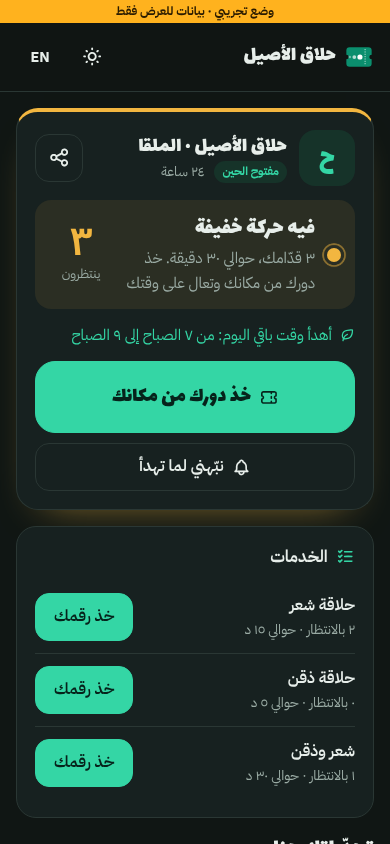
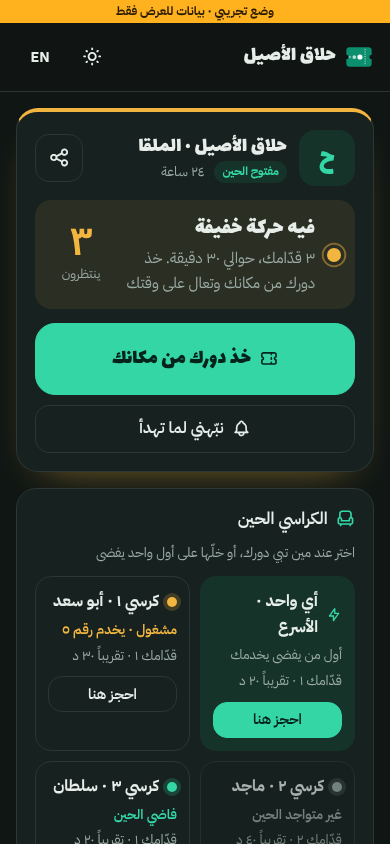
Chairs board: see each chair or stylist live and book a specific one
- public.branch_chairs(): per provider status (free / busy with the number
  being served / away when its device has gone quiet), own waiting, people
  ahead when joining (own queue + fair share of «any»), estimate, services.
  public_branch returns it as «chairs».
- Choosing a chair (preferred_provider) moves to every plan.
- Shop page: «الكراسي الحين» / «المختصات الحين» board with «أي واحد ·
  الأسرع» and «احجز هنا» per chair; the join sheet shows chairs as choices
  with status and wait instead of a hidden dropdown. Away chairs stay bookable.
- Demo API mirrors it; owner hint explains how names appear.
- Tests: pgTAP 10_chairs (7), e2e chairs.spec.

Claude-Session: https://claude.ai/code/session_011AnjtrARLh3VczrdQUDmDr

Changed region(s): [[0.0923, 0.3697, 0.9231, 0.6777], [0.0923, 0.6469, 0.5538, 1.0], [0.5231, 0.7085, 0.9538, 1.0]]

diff --git a/dawri/web/js/screens/shop.js b/dawri/web/js/screens/shop.js
@@ -92,16 +92,21 @@ export async function render(ctx) {
   const poll = setInterval(() => document.visibilityState === "visible" && load().catch(() => {}), 30000);
   ctx.onCleanup(() => { unsub(); clearInterval(poll); });
 
-  async function join(service) {
+  async function join(service, presetProvider = null) {
     const providers = data.providers.filter((p) => !p.service_ids || p.service_ids.includes(service.id));
-    let party = 1, provider = null;
+    let party = 1, provider = presetProvider;
+    const chairOf = (id) => (data.chairs ?? []).find((c) => c.id === id);
+    const chipLine = (c) => (c ? [c.status === "busy" ? t("chairs.busy_plain") : t(`chairs.${c.status}`),
+      c.ahead ? `${t("chairs.ahead", { n: num(c.ahead) })} · ${t("chairs.wait", { m: num(c.estimate_min) })}` : t("chairs.ahead_none")].join(" · ") : "");
+    const chips = h("div.chair-chips", { role: "group", "aria-label": t("join.provider") },
+      [{ id: null, name: t("join.any_provider") }, ...providers].map((p) => h("button.chip.chair-chip", { type: "button", "data-provider": p.id ?? "any", "aria-pressed": String((p.id ?? null) === provider),
+        onclick: () => { provider = p.id ?? null; chips.querySelectorAll("button").forEach((x) => x.setAttribute("aria-pressed", String((x.dataset.provider === "any" ? null : x.dataset.provider) === provider))); } },
+        h("b", p.name), p.id ? h("small", chipLine(chairOf(p.id))) : h("small", t("chairs.any_sub")))));
     const partyOut = h("output.big-num", { style: { fontSize: "2rem", minWidth: "2ch", textAlign: "center" } }, num(1));
     const step = (d) => () => { party = Math.min(6, Math.max(1, party + d)); partyOut.textContent = num(party); };
     const body = [
       h("p.muted", t("join.service", { name: service.name })),
-      providers.length ? h("label.field", h("span", t("join.provider")),
-        h("select", { id: "join-provider", onchange: (e) => (provider = e.target.value || null) },
-          h("option", { value: "" }, t("join.any_provider")), providers.map((p) => h("option", { value: p.id }, p.name)))) : null,
+      providers.length ? h("div.field", h("span", t("join.provider")), chips) : null,
       data.features.includes("family_ticket") ? h("div.field", h("span", t("join.party")), h("p.muted.small", t("join.party_hint")),
         h("div.row", { style: { justifyContent: "center", gap: "18px" } },
           h("button.icon-btn", { type: "button", "aria-label": "−", onclick: step(-1), style: { border: "1.5px solid var(--line)" } }, icon("minus")),
@@ -158,6 +163,7 @@ export async function render(ctx) {
 
     fill(root, 
       pulse(b, f, photo, hoursToday, est),
+      chairsBoard(b),
 
       card(t("shop.services"), "list-check", h("div.list#services", data.services.map((s) => h("div.list-item", { "data-service": s.id },
         h("div.grow", h("div.title", s.name),
@@ -207,6 +213,44 @@ export async function render(ctx) {
 
       f.includes("qa_assistant") ? qaCard() : null,
       h("p.center.muted.small", t("shop.powered")));
+  }
+
+  /** «الكراسي الحين»: every chair / stylist live, the wait for each, and a button to book there. */
+  function chairsBoard(b) {
+    const chairs = data.chairs ?? [];
+    const remote = data.services.filter((s) => s.mode === "remote");
+    if (!chairs.length || !remote.length) return null;
+    const cat = data.branch.category === "salon" ? "salon" : data.branch.category === "barber" ? "barber" : "other";
+    const best = chairs.filter((c) => c.status !== "away").sort((x, y) => x.estimate_min - y.estimate_min)[0];
+    const servicesOf = (c) => remote.filter((s) => !c.service_ids || c.service_ids.includes(s.id));
+    const book = (c) => {
+      if (!b.open) return refused(new ApiError("closed", { next_open_at: b.next_open_at, busy_level: b.busy_level }));
+      const svcs = c ? servicesOf(c) : remote;
+      if (svcs.length === 1) return join(svcs[0], c?.id ?? null);
+      openSheet({ title: t("chairs.pick_service"), body: [h("div.list", svcs.map((s) => h("button.list-item.btn-plain", { type: "button", "data-pick-service": s.id,
+        onclick: () => { document.querySelector(".sheet-backdrop")?.click(); setTimeout(() => join(s, c?.id ?? null), 260); } },
+        h("div.grow", h("div.title", s.name), h("div.muted.small", t("shop.service_wait", { n: num(s.waiting), m: num(s.estimate_min) }))), icon("chevron-left"))))],
+        actions: [{ label: t("action.cancel"), ghost: true }] });
+    };
+    const card = (c) => {
+      const line = c.status === "busy" ? (c.serving_number ? t("chairs.busy", { n: num(c.serving_number) }) : t("chairs.busy_plain")) : t(`chairs.${c.status}`);
+      const svcs = servicesOf(c);
+      return h(`article.chair.st-${c.status}`, { "data-chair": c.id },
+        h("div.chair-top", h("span.chair-dot", { "aria-hidden": "true" }), h("b.chair-name", c.name)),
+        h("p.chair-status", line),
+        h("p.chair-wait", c.ahead ? `${t("chairs.ahead", { n: num(c.ahead) })} · ${t("chairs.wait", { m: num(c.estimate_min) })}` : t("chairs.ahead_none")),
+        c.service_ids ? h("p.chair-svcs", t("chairs.only_services", { list: svcs.map((s) => s.name).join("، ") })) : null,
+        h("button.btn.btn-sm", { type: "button", "data-testid": "book-chair", onclick: () => book(c) }, t("chairs.book")));
+    };
+    return h("section.card.chairs", { "data-testid": "chairs-board" },
+      h("div.card-head", icon(cat === "salon" ? "sparkles" : "armchair"), h("h3", t(`chairs.title.${cat}`))),
+      h("p.muted.small", t("chairs.lead")),
+      h("div.chair-grid",
+        h("article.chair.any", h("div.chair-top", icon("bolt"), h("b.chair-name", t("chairs.any"))),
+          h("p.chair-status", t("chairs.any_sub")),
+          h("p.chair-wait", best ? (best.ahead ? `${t("chairs.ahead", { n: num(best.ahead) })} · ${t("chairs.wait", { m: num(best.estimate_min) })}` : t("chairs.ahead_none")) : ""),
+          h("button.btn.btn-primary.btn-sm", { type: "button", "data-testid": "book-any", onclick: () => book(null) }, t("chairs.book"))),
+        ...chairs.map(card)));
   }
 
   /** «نبض المحل»: the live crowd, said the way a friend would say it, with what to do about it. */

diff --git a/dawri/web/js/demo-api.js b/dawri/web/js/demo-api.js
@@ -22,8 +22,8 @@ const token = () => Array.from(crypto.getRandomValues(new Uint8Array(24)), (b) =
 const KEYS = ["sun", "mon", "tue", "wed", "thu", "fri", "sat"];
 
 // ---------- plans ----------
-const BASIC = ["queue", "fadeet", "return_now", "card", "evening_summary", "late_button", "family_ticket", "priority", "lost_customers", "staff_language"];
-const GROWTH = [...BASIC, "menu", "menu_photo_ai", "timed_offers", "loyalty", "feedback", "preferred_provider", "best_time", "busy_alert", "quests", "upsell"];
+const BASIC = ["queue", "fadeet", "return_now", "card", "evening_summary", "late_button", "family_ticket", "priority", "lost_customers", "staff_language", "preferred_provider"];
+const GROWTH = [...BASIC, "menu", "menu_photo_ai", "timed_offers", "loyalty", "feedback", "best_time", "busy_alert", "quests", "upsell"];
 const FULL = [...GROWTH, "full_page", "news", "qa_assistant", "quiet_coupon", "peak_report", "absent_customers", "smart_quests"];
 const PLANS = { basic: BASIC, seasonal: BASIC, growth: GROWTH, full: FULL };
 const minPlan = (f) => (BASIC.includes(f) ? "basic" : GROWTH.includes(f) ? "growth" : "full");
@@ -218,6 +218,26 @@ function serviceMinutes(serviceId, providerId) {
     .map((x) => (Date.parse(x.done_at) - Date.parse(x.served_at)) / 60000).filter((m) => m > 0).slice(-30).sort((a, b) => a - b);
   if (d.length >= 3) return Math.max(1, Math.min(600, d.length % 2 ? d[(d.length - 1) / 2] : (d[d.length / 2 - 1] + d[d.length / 2]) / 2));
   return db.services.find((s) => s.id === serviceId)?.avg_minutes ?? 15;
+}
+/** Same shape as public.branch_chairs: status, number being served, people ahead and the wait per chair. */
+function demoChairs(b) {
+  const prov = db.providers.filter((p) => p.branch_id === b.id && p.is_active);
+  const waiting = db.tickets.filter((t) => t.branch_id === b.id && t.status === "waiting" && t.mode === "remote");
+  const remote = db.services.filter((s) => s.branch_id === b.id && s.is_active && s.mode === "remote");
+  return prov.map((p) => {
+    const cur = db.tickets.filter((t) => t.provider_id === p.id && t.day === dayOf() && ["called", "serving"].includes(t.status)).sort((x, y) => (x.called_at < y.called_at ? 1 : -1))[0];
+    const devs = db.devices.filter((d) => d.provider_id === p.id && !d.revoked_at);
+    const seen = devs.some((d) => d.last_seen_at && Date.now() - Date.parse(d.last_seen_at) < 20 * 60000);
+    const own = waiting.filter((t) => t.provider_id === p.id).length;
+    const any = waiting.filter((t) => !t.provider_id && (!p.service_ids || p.service_ids.includes(t.service_id))).length;
+    const peers = Math.max(1, prov.filter((q) => !q.service_ids || !p.service_ids || q.service_ids.some((x) => p.service_ids.includes(x))).length);
+    const svcs = remote.filter((s) => !p.service_ids || p.service_ids.includes(s.id));
+    const minutes = svcs.length ? Math.round(svcs.reduce((a, s) => a + serviceMinutes(s.id, p.id), 0) / svcs.length) : 15;
+    const ahead = own + Math.ceil(any / peers);
+    return { id: p.id, name: p.display_name, status: cur ? "busy" : devs.length && !seen ? "away" : "free", serving_number: cur?.number ?? null,
+      serving_minutes: cur?.called_at ? Math.floor((Date.now() - Date.parse(cur.called_at)) / 60000) : null, waiting: own, ahead,
+      estimate_min: round5(ahead * minutes + (cur ? minutes / 2 : 0)), service_ids: p.service_ids };
+  }).sort((x, y) => (x.name < y.name ? -1 : 1));
 }
 const providerCount = (s) => Math.max(1, db.providers.filter((p) => p.branch_id === s.branch_id && p.is_active && (!p.service_ids || p.service_ids.includes(s.id))).length);
 const round5 = (m) => Math.max(5, Math.round(m / 5) * 5);
@@ -892,6 +912,7 @@ export async function createApi() {
         offers: activeOffers(b),
         best_time: f.includes("best_time") ? { arrivals: arrivalsMatrix(b), open: openMatrix(b) } : null,
         quests: questsView(b, null),
+        chairs: f.includes("preferred_provider") ? demoChairs(b) : [],
         news: f.includes("news") ? db.news.filter((n) => n.branch_id === b.id).sort((x, y) => (x.published_at < y.published_at ? 1 : -1)).slice(0, 10) : [],
         server_time: iso(),
       };

diff --git a/dawri/web/js/screens/owner.js b/dawri/web/js/screens/owner.js
@@ -33,7 +33,7 @@ const FEATURE_AR = {
   quests: "تحدّياتي", upsell: "أبيها (طلب إضافة وقت الانتظار)", smart_quests: "التحديات الذكية",
 };
 const MIN_PLAN = (f) => (["queue", "fadeet", "return_now", "card", "evening_summary", "late_button", "family_ticket", "priority", "lost_customers", "staff_language"].includes(f) ? "basic"
-  : ["menu", "menu_photo_ai", "timed_offers", "loyalty", "feedback", "preferred_provider", "best_time", "busy_alert", "quests", "upsell"].includes(f) ? "growth" : "full");
+  : ["menu", "menu_photo_ai", "timed_offers", "loyalty", "feedback", "best_time", "busy_alert", "quests", "upsell"].includes(f) ? "growth" : "full");
 
 const field = (label, input, hint) => h("label.field", h("span", label), input, hint ? h("span.muted.small", { style: { fontWeight: 400 } }, hint) : null);
 const locked = (feature, title = FEATURE_AR[feature]) => LockedCard(title, MIN_PLAN(feature));
@@ -533,7 +533,7 @@ export async function render(ctx) {
       h("button.btn.btn-block", { type: "button", onclick: () => svcSheet() }, icon("plus"), "خدمة جديدة"),
       h("div.divider"),
       h("h3", "مقدّمو الخدمة (الكراسي)"),
-      has("preferred_provider") ? null : h("p.muted.small", "اختيار الزبون لمقدّم بعينه متاح في باقة النمو؛ الكراسي تُستخدم لتوزيع الطابور في كل الباقات."),
+      h("p.muted.small", "يشوف الزبون كل كرسي: فاضي أو مشغول، وكم ينتظره، ويقدر يحجز عند كرسي معيّن. اكتب الاسم كما تحب يظهر (مثلاً: كرسي ١ · أبو سعد، أو المختصة نورة)."),
       provs.length ? h("div.list", provs.map((p) => h("div.list-item", h("span.grow", p.display_name),
         h("button.icon-btn", { type: "button", "aria-label": "حذف", onclick: async () => { await api.owner("delete", { table: "providers", id: p.id }); settings(); } }, icon("trash"))))) : null,
       h("div.row", { style: { flexWrap: "nowrap" } }, h("label.field", { style: { flex: 1 } }, h("span.sr", "اسم مقدّم الخدمة"), provName),

diff --git a/dawri/web/css/app.css b/dawri/web/css/app.css
@@ -523,3 +523,26 @@ table.simple th, table.simple td { text-align: start; padding: 8px 6px; border-t
 .sub-end { display: flex; flex-wrap: wrap; gap: 4px; align-items: center; background: var(--ticket); border-radius: 12px; padding: 10px 12px; font-size: .95rem; }
 .sub-end .ti { color: var(--accent); }
 .called .c-tag { font: 700 1.5rem/1.3 var(--f-hand, var(--f-body)); opacity: .95; }
+
+/* ---------- «الكراسي الحين» ---------- */
+.chair-grid { display: grid; grid-template-columns: repeat(2, minmax(0, 1fr)); gap: 10px; }
+.chair { --st: var(--accent); border: 1px solid var(--line); border-radius: 16px; padding: 12px; display: grid; gap: 4px; align-content: start; background: var(--sheet); position: relative; }
+.chair.st-busy { --st: var(--amber); }
+.chair.st-away { --st: var(--muted); }
+.chair.any { background: var(--ticket); border-color: transparent; }
+.chair-top { display: flex; align-items: center; gap: 8px; min-width: 0; }
+.chair-top .ti { color: var(--accent); }
+.chair-dot { width: 10px; height: 10px; border-radius: 50%; background: var(--st); flex: none; box-shadow: 0 0 0 4px color-mix(in srgb, var(--st) 20%, transparent); }
+.chair-name { overflow: hidden; text-overflow: ellipsis; white-space: nowrap; }
+.chair p { margin: 0; }
+.chair-status { font-size: .85rem; color: var(--st); font-weight: 600; }
+.chair.any .chair-status { color: var(--muted); font-weight: 400; }
+.chair-wait { font-size: .85rem; color: var(--muted); }
+.chair-svcs { font-size: .75rem; color: var(--muted); }
+.chair .btn-sm { margin-top: 6px; }
+.chair-chips { display: grid; gap: 8px; }
+.chair-chip { display: grid; gap: 2px; text-align: start; padding: 10px 12px; border-radius: 14px; }
+.chair-chip small { font-weight: 400; opacity: .85; }
+.btn-plain { background: none; border: 0; width: 100%; text-align: start; font: inherit; color: inherit; cursor: pointer; }
+.chair.any .chair-name { white-space: normal; }
+.chair-chip:disabled { opacity: .5; }

diff --git a/dawri/tests/e2e/chairs.spec.js b/dawri/tests/e2e/chairs.spec.js
@@ -1,0 +1,23 @@
+import { test, expect } from "./fixtures.js";
+
+test("chairs board: see who is busy or free, book a specific chair, the ticket says which", async ({ page, context }) => {
+  // chair 1's device calls someone, so chair 1 is busy
+  const staff = await context.newPage();
+  await staff.goto("/staff/pair#demo-staff-aseel-chair1-000000000000");
+  await staff.getByTestId("call-next").click();
+
+  await page.goto("/s/aseel2026?stay");
+  const board = page.getByTestId("chairs-board");
+  await expect(board).toContainText("الكراسي الحين");
+  await expect(board.locator(".chair[data-chair]")).toHaveCount(3);
+  await expect(board.locator(".chair", { hasText: "كرسي ١" })).toContainText("مشغول");
+  await expect(board.locator(".chair", { hasText: "كرسي ٣" })).toContainText("فاضي");
+
+  // book chair 3 for a beard trim
+  await board.locator(".chair", { hasText: "كرسي ٣" }).getByTestId("book-chair").click();
+  await page.locator("[data-pick-service]", { hasText: "حلاقة ذقن" }).click();
+  await expect(page.locator('.chair-chip[aria-pressed="true"]')).toContainText("كرسي ٣");
+  await page.click('[data-action="join-confirm"]');
+  await page.waitForURL(/\/t\//);
+  await expect(page.locator("main")).toContainText("كرسي ٣");
+});
